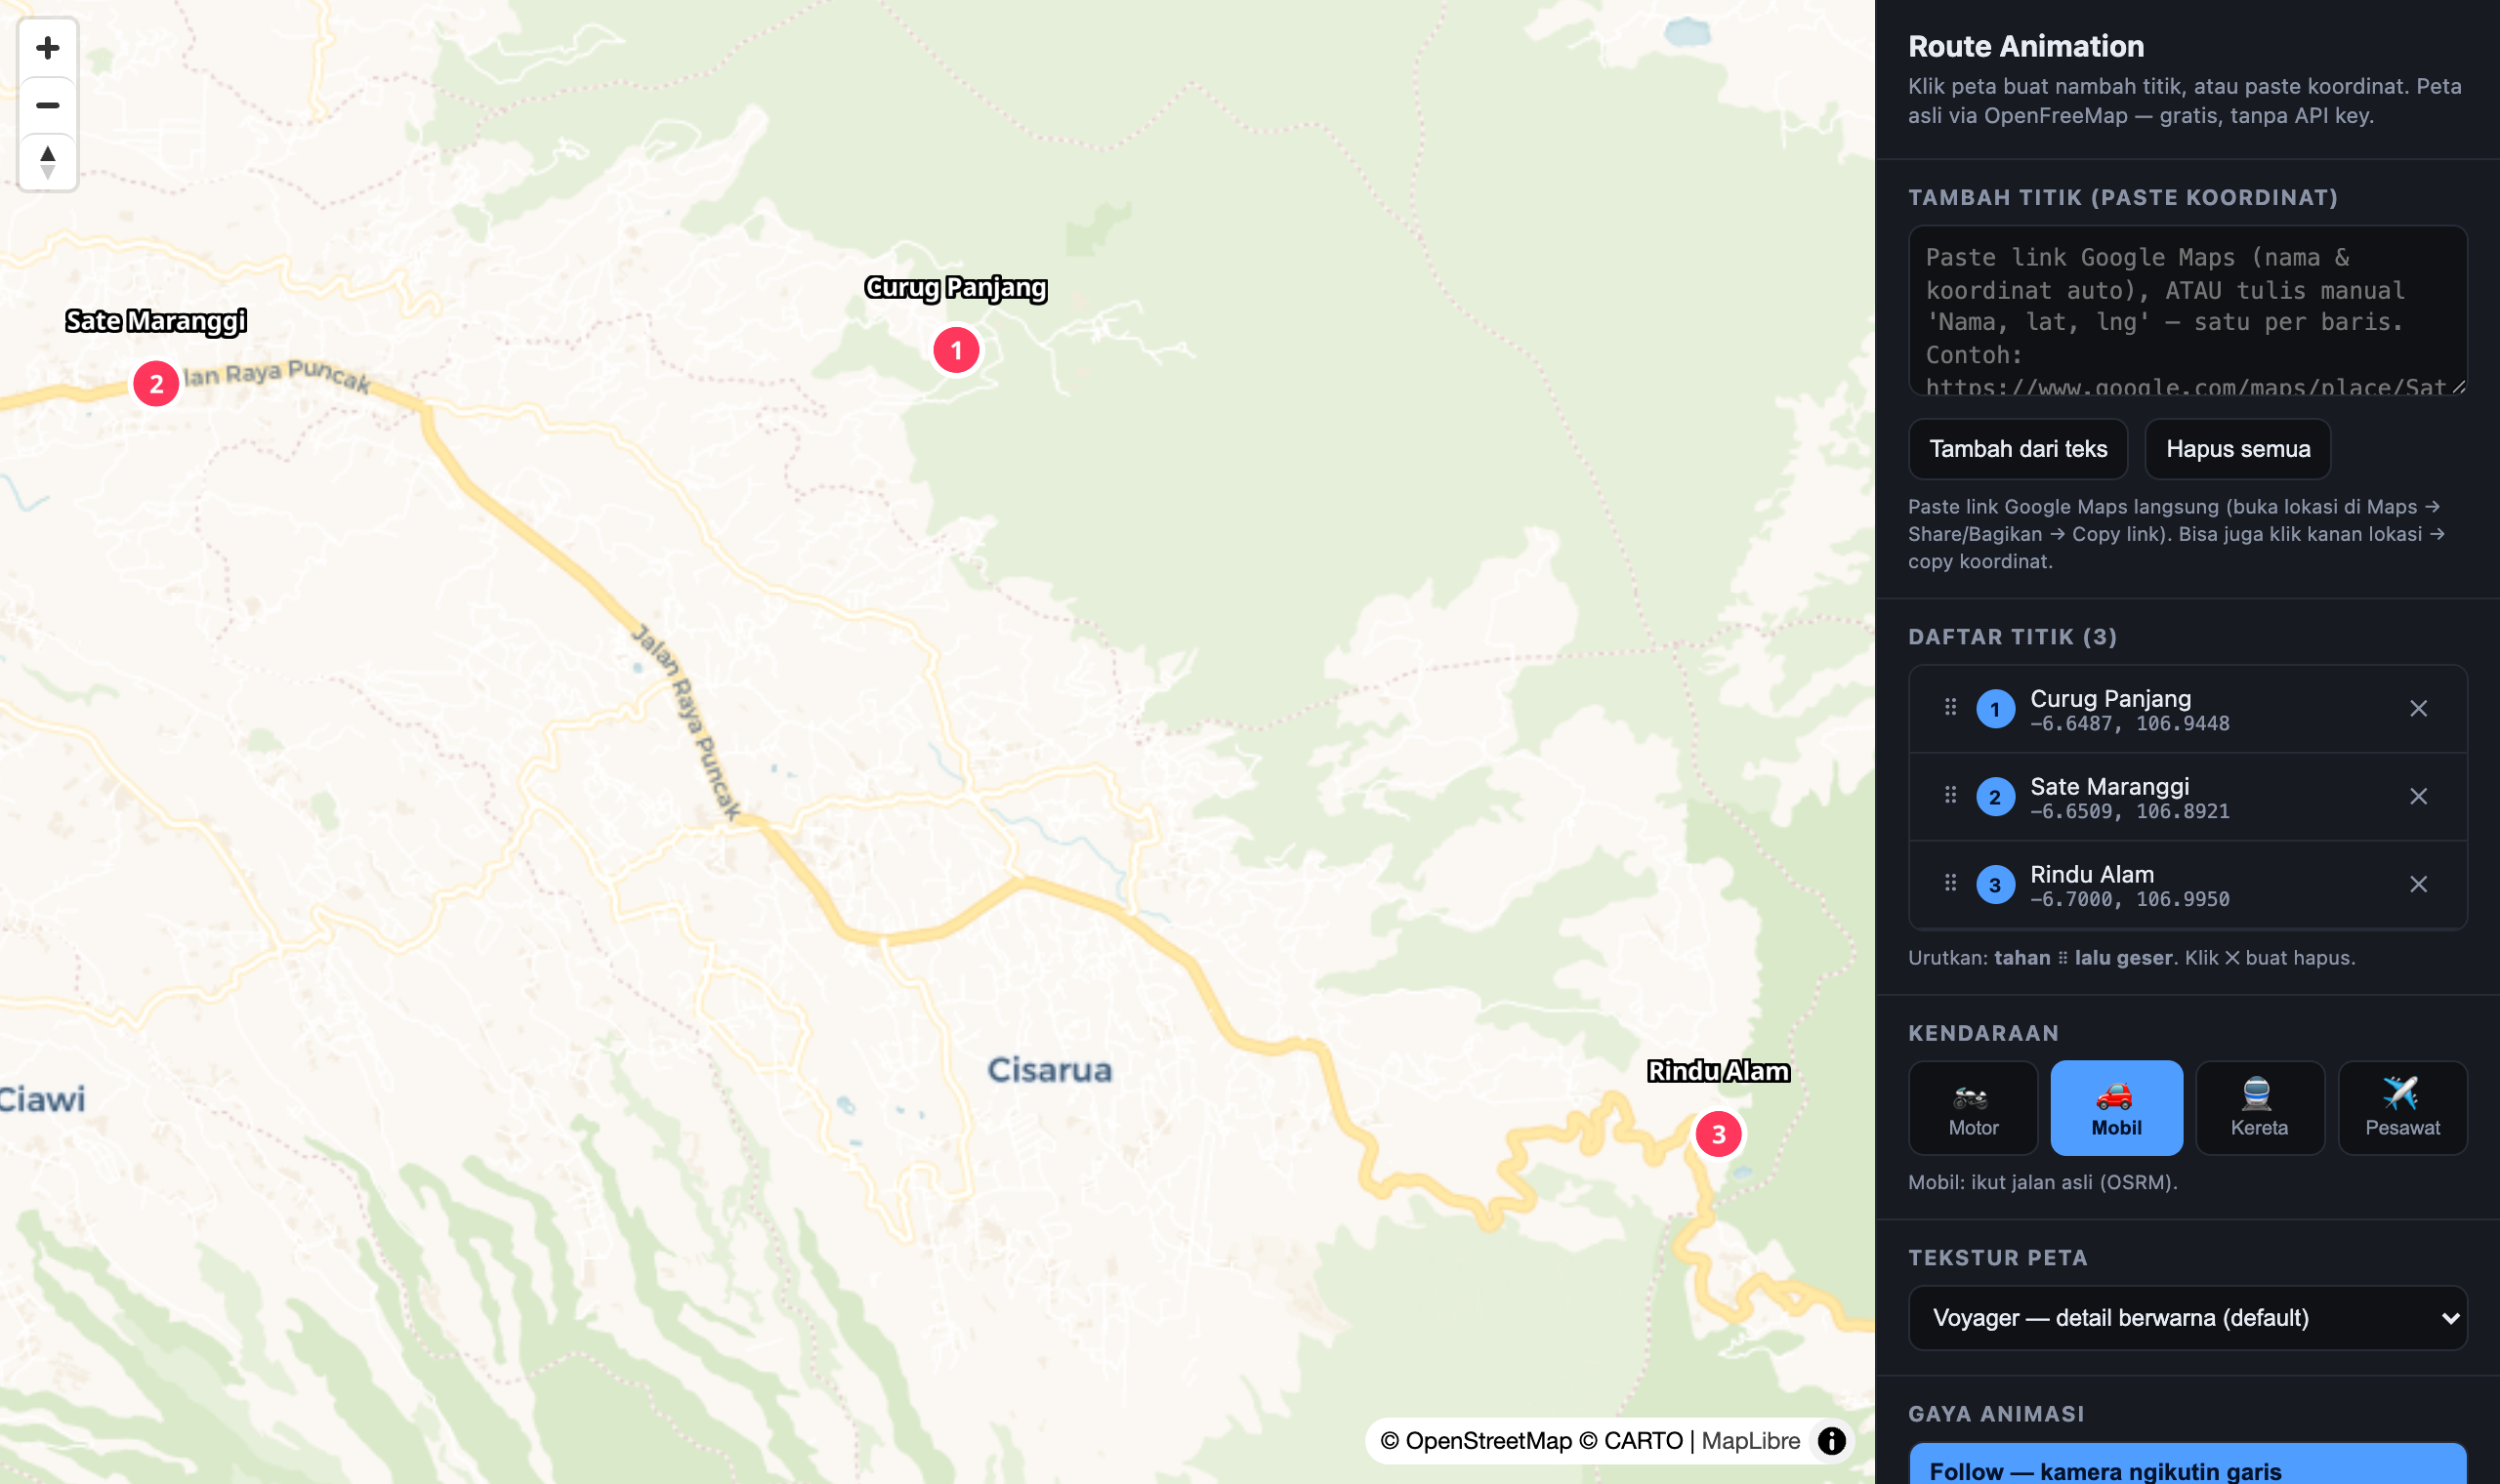
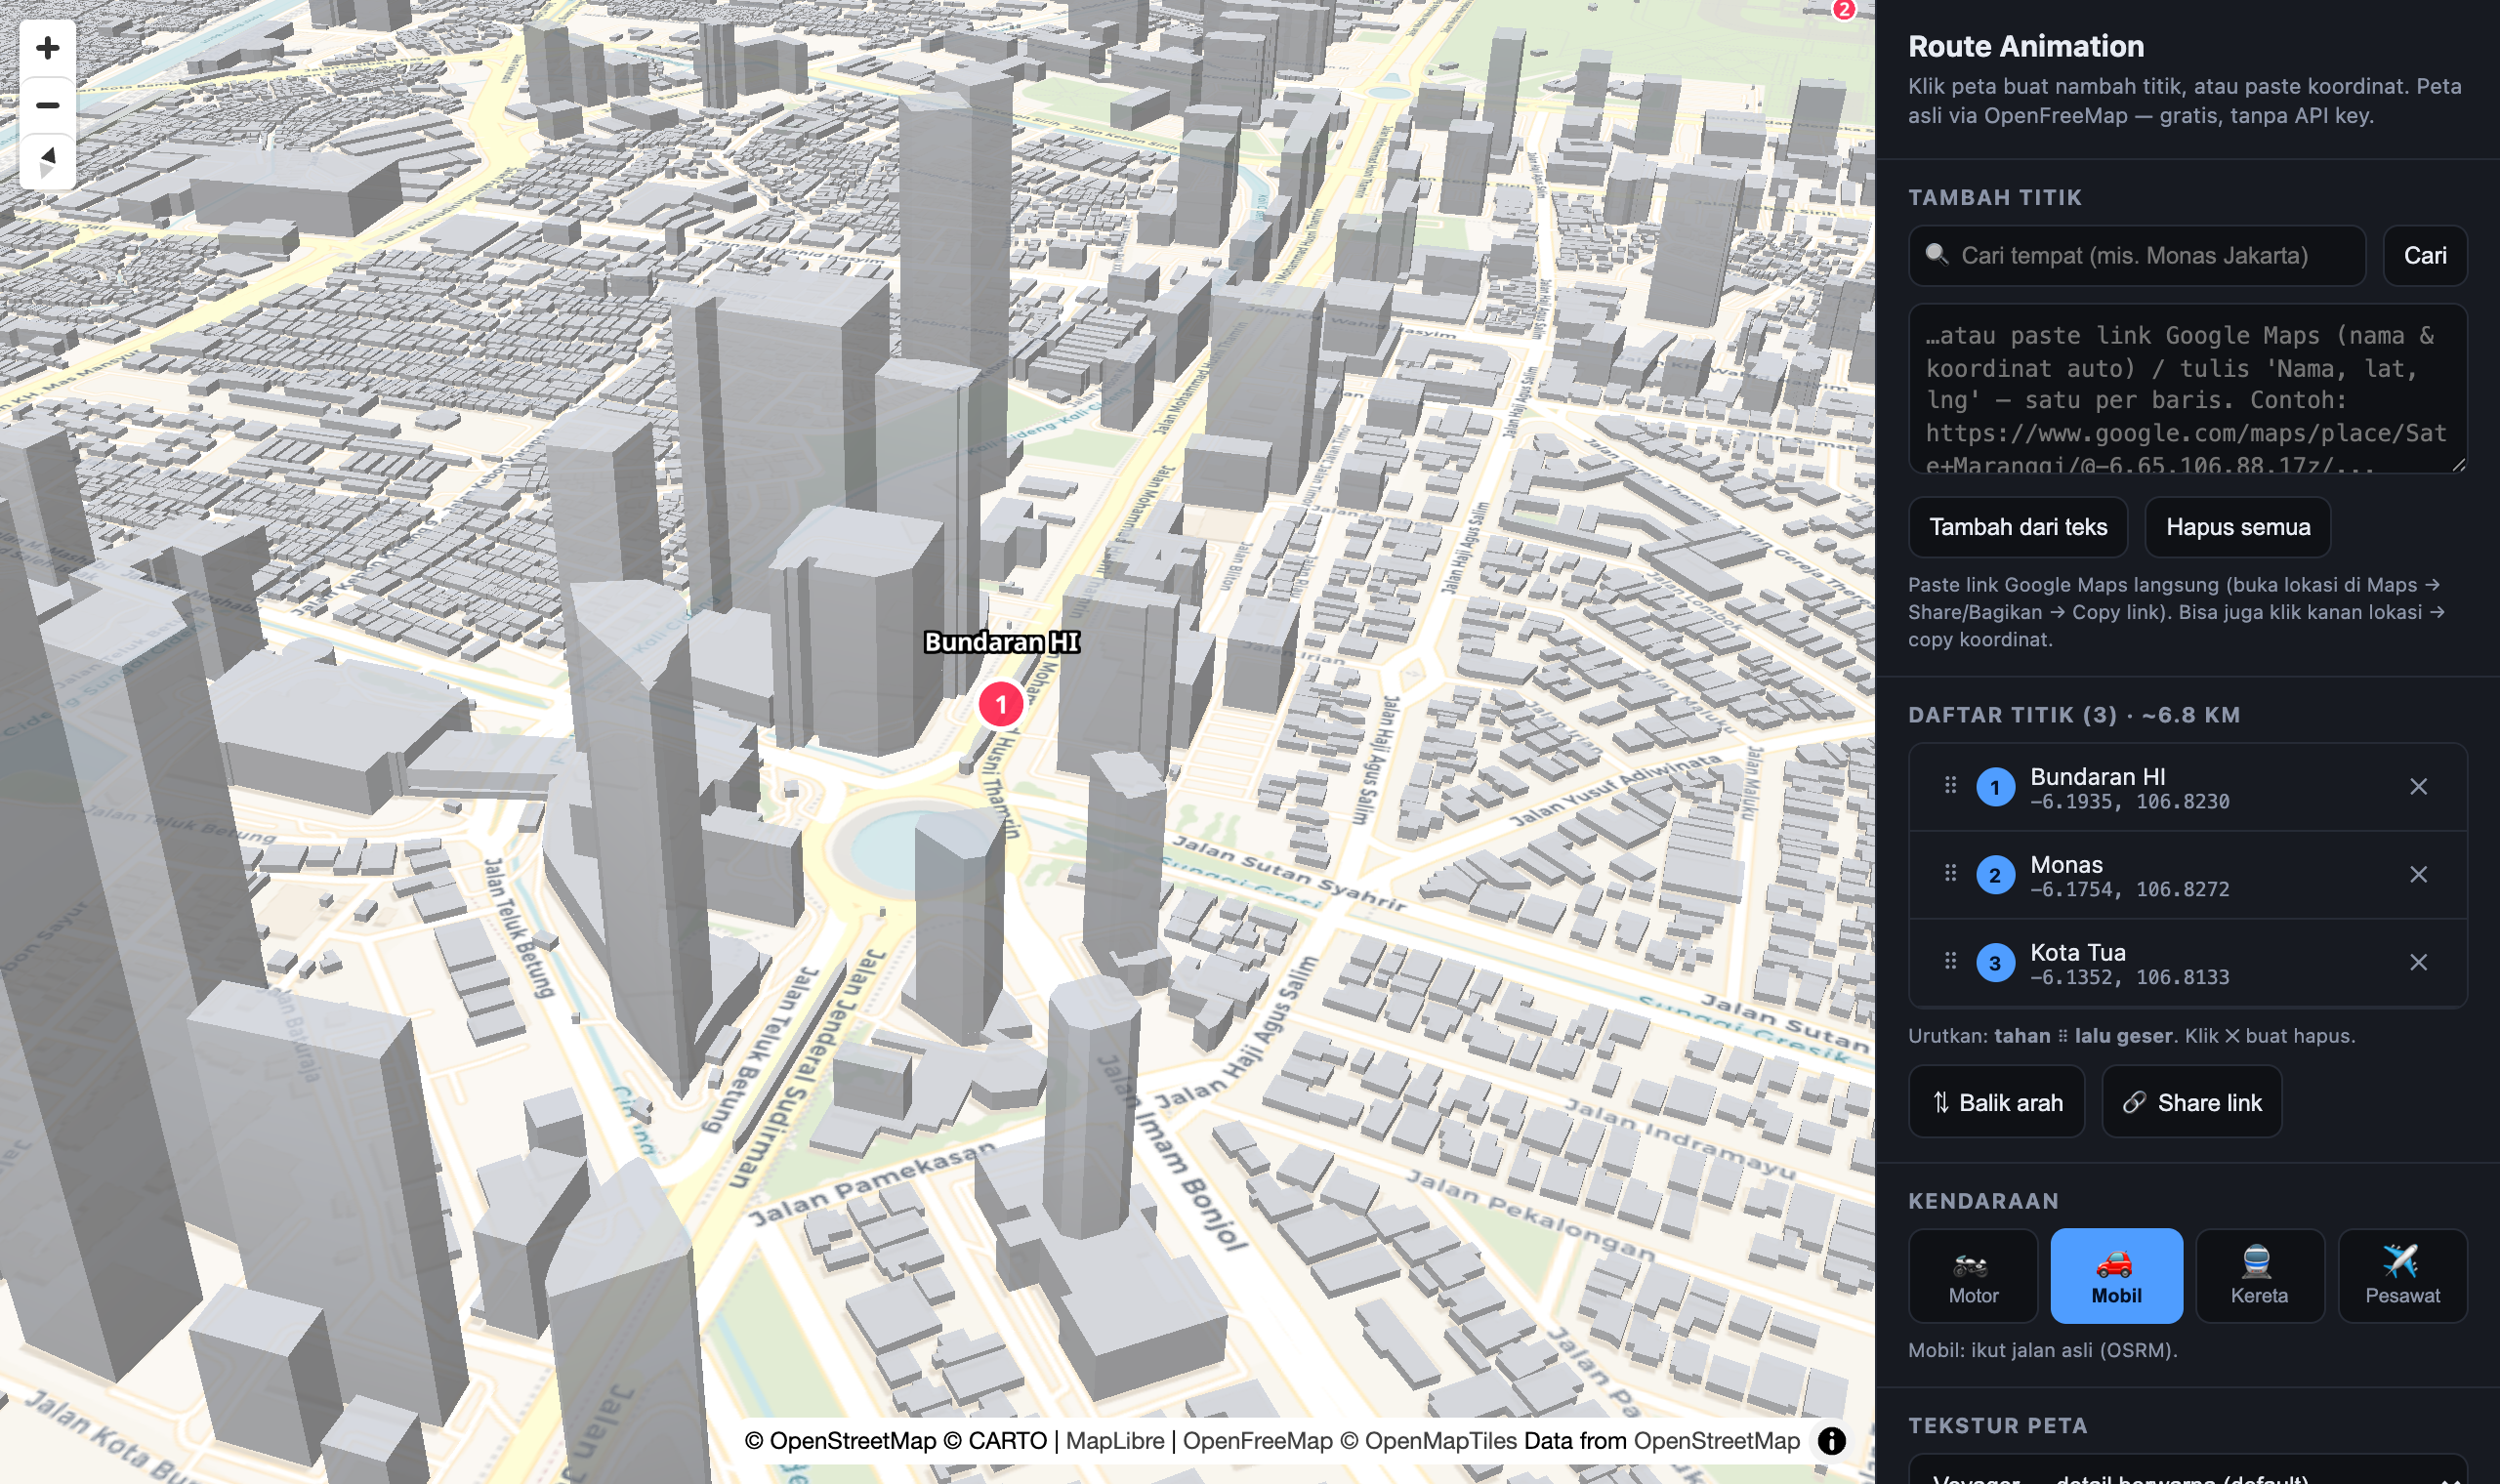
Add 3D buildings, place search, route color, share link, MP4, 3D plane & train
- All four vehicles now render as 3D models (plane flies at altitude,
  train has a locomotive with wheels).
- Optional 3D buildings (OpenFreeMap vector tiles, shown when pitched).
- Place search via OpenStreetMap Nominatim geocoding.
- Custom route color.
- Share link: whole route + settings encoded in the URL.
- Record format selector (WebM/MP4, uses native MP4 when supported).

diff --git a/map-animation.html b/map-animation.html
@@ -48,6 +48,11 @@
   .field label { font-size:11px; color:var(--mut); display:flex; justify-content:space-between; }
   input[type=range] { width:100%; accent-color:var(--acc); }
   select { width:100%; background:var(--bg); color:var(--txt); border:1px solid var(--line); border-radius:8px; padding:8px; font-size:12px; cursor:pointer; }
+  input[type=text] { background:var(--bg); color:var(--txt); border:1px solid var(--line); border-radius:8px; padding:8px; font-size:12px; }
+  input[type=text]:focus { outline:none; border-color:var(--acc); }
+  input[type=color] { width:38px; height:28px; padding:0; border:1px solid var(--line); border-radius:6px; background:var(--bg); cursor:pointer; }
+  input[type=checkbox] { accent-color:var(--acc); }
+  .chk { display:flex; align-items:center; gap:8px; margin-top:10px; font-size:12px; color:var(--mut); cursor:pointer; }
   .seg { display:flex; background:var(--bg); border:1px solid var(--line); border-radius:8px; overflow:hidden; }
   .seg button { border:0; border-radius:0; flex:1; }
   .seg.vseg { flex-direction:column; }
@@ -74,8 +79,12 @@
     </div>
 
     <div class="sec">
-      <h2>Tambah titik (paste koordinat)</h2>
-      <textarea id="paste" placeholder="Paste link Google Maps (nama & koordinat auto), ATAU tulis manual 'Nama, lat, lng' — satu per baris. Contoh:
+      <h2>Tambah titik</h2>
+      <div class="row" style="margin-bottom:8px">
+        <input id="searchBox" type="text" placeholder="🔍 Cari tempat (mis. Monas Jakarta)" style="flex:1">
+        <button id="searchBtn">Cari</button>
+      </div>
+      <textarea id="paste" placeholder="…atau paste link Google Maps (nama & koordinat auto) / tulis 'Nama, lat, lng' — satu per baris. Contoh:
 https://www.google.com/maps/place/Sate+Maranggi/@-6.65,106.88,17z/...
 Kafe A, -6.5971, 106.8060"></textarea>
       <div class="row" style="margin-top:8px">
@@ -91,6 +100,7 @@ Kafe A, -6.5971, 106.8060"></textarea>
       <div class="hint" id="listHint">Belum ada titik. Paste koordinat di atas atau klik peta. Nanti <b>tahan ⠿ lalu geser</b> buat urutkan.</div>
       <div class="row" style="margin-top:8px">
         <button id="reverse" title="urutan titik dibalik">⇅ Balik arah</button>
+        <button id="share" title="salin link berisi rute ini">🔗 Share link</button>
       </div>
     </div>
 
@@ -115,6 +125,7 @@ Kafe A, -6.5971, 106.8060"></textarea>
         <option value="osm">OSM klasik — peta OpenStreetMap</option>
         <option value="topo">Topo — kontur/topografi</option>
       </select>
+      <label class="chk"><input type="checkbox" id="bldg3d"> Gedung 3D <span style="opacity:.7">(kelihatan pas peta dimiringkan)</span></label>
     </div>
 
     <div class="sec">
@@ -128,6 +139,10 @@ Kafe A, -6.5971, 106.8060"></textarea>
     </div>
 
     <div class="sec">
+      <div class="field" style="flex-direction:row; align-items:center; justify-content:space-between">
+        <label style="margin:0">Warna rute</label>
+        <input type="color" id="routeColor" value="#4f9dff">
+      </div>
       <div class="field">
         <label>Kecepatan animasi <span id="spdV">1.0×</span></label>
         <input type="range" id="spd" min="0.3" max="3" step="0.1" value="1">
@@ -146,8 +161,9 @@ Kafe A, -6.5971, 106.8060"></textarea>
       <div class="row">
         <button id="play" class="primary" style="flex:1">▶ Play</button>
         <button id="rec" class="rec">● Record</button>
+        <select id="recFmt" style="width:auto" title="format video"><option value="webm">WebM</option><option value="mp4">MP4</option></select>
       </div>
-      <div class="hint">Klik Record dulu → lalu Play → klik Record lagi buat stop &amp; download WebM.</div>
+      <div class="hint">Klik Record dulu → lalu Play → klik Record lagi buat stop &amp; download. MP4 buat IG/TikTok (kalau browser dukung).</div>
     </div>
   </div>
 </div>
@@ -210,31 +226,43 @@ let cancelReq = false;
 let restored = false; // true setelah state dari localStorage dimuat
 
 /* ---------- simpan/muat otomatis (localStorage) ---------- */
+function stateObj(){
+  return { v: vehicle, a: animStyle,
+    b: document.getElementById('basemap').value,
+    c: document.getElementById('routeColor').value,
+    bldg: document.getElementById('bldg3d').checked,
+    f: document.getElementById('recFmt').value,
+    wp: waypoints.map(w => [ +w.lat.toFixed(5), +w.lng.toFixed(5), w.name ]) };
+}
+function applyState(s){
+  if(!s) return;
+  if(Array.isArray(s.wp)) waypoints = s.wp
+    .map(w => Array.isArray(w) ? { lat:w[0], lng:w[1], name:w[2] } : w)
+    .filter(w => w && typeof w.lat==='number' && typeof w.lng==='number');
+  if(s.v && VEHICLES[s.v]) vehicle = s.v;
+  if(s.a) animStyle = s.a;
+  if(s.b && BASEMAPS[s.b]){ document.getElementById('basemap').value = s.b; setBasemap(s.b); }
+  if(s.c) document.getElementById('routeColor').value = s.c;
+  if(s.f) document.getElementById('recFmt').value = s.f;
+  if(s.bldg) document.getElementById('bldg3d').checked = true;
+}
 function persist(){
   if(!restored) return; // jangan nimpa storage pas init
-  try {
-    localStorage.setItem('mapAnimState', JSON.stringify({
-      v: vehicle, a: animStyle,
-      b: document.getElementById('basemap').value,
-      wp: waypoints
-    }));
-  } catch(e){}
+  try { localStorage.setItem('mapAnimState', JSON.stringify(stateObj())); } catch(e){}
 }
 function loadState(){
-  try {
-    const s = JSON.parse(localStorage.getItem('mapAnimState') || 'null');
-    if(s){
-      if(Array.isArray(s.wp)) waypoints = s.wp.filter(w => w && typeof w.lat==='number' && typeof w.lng==='number');
-      if(s.v && VEHICLES[s.v]) vehicle = s.v;
-      if(s.a) animStyle = s.a;
-      if(s.b && BASEMAPS[s.b]){ document.getElementById('basemap').value = s.b; setBasemap(s.b); }
-    }
-  } catch(e){}
+  let s = null;
+  // prioritas: share link di URL (#r=...), lalu localStorage
+  if(location.hash.startsWith('#r=')) s = decodeState(location.hash.slice(3));
+  if(!s){ try { s = JSON.parse(localStorage.getItem('mapAnimState') || 'null'); } catch(e){} }
+  applyState(s);
   restored = true;
-  // sinkronkan tampilan tombol dengan state
+  // sinkronkan tampilan dengan state
   document.querySelectorAll('#veh button').forEach(x => x.classList.toggle('on', x.dataset.v === vehicle));
   document.querySelectorAll('#anim button').forEach(x => x.classList.toggle('on', x.dataset.a === animStyle));
   document.getElementById('vehHint').textContent = VEHICLES[vehicle].hint;
+  applyRouteColor();
+  if(document.getElementById('bldg3d').checked) setBuildings3D(true);
   setVehicleIcon();
   redraw();
   if(waypoints.length) fitAll();
@@ -296,7 +324,7 @@ function setVehicleIcon(){
 /* ============ KENDARAAN 3D (Three.js custom layer) ============ */
 // vehState di-update tiap frame animasi. Layer 3D baca ini buat posisi/arah.
 const vehState = { lng:0, lat:0, angle:0, visible:false, spin:0, kind:'mobil' };
-const VEH3D = { car:null, moto:null }; // group Three.js, wheels[] buat muter
+const VEH3D = { mobil:null, motor:null, pesawat:null, kereta:null }; // group Three.js per kendaraan
 
 function mat(hex){ return new THREE.MeshLambertMaterial({ color:hex });
 }
@@ -338,8 +366,40 @@ function buildMoto(color){
   g.userData.wheels = wheels;
   return g;
 }
+function buildPlane(color){
+  const g = new THREE.Group();
+  const fuse = new THREE.Mesh(new THREE.CylinderGeometry(0.55,0.55,6,16), mat(color));
+  fuse.rotation.z = Math.PI/2; fuse.position.z = 0.6; g.add(fuse); // badan sepanjang X
+  const nose = new THREE.Mesh(new THREE.ConeGeometry(0.55,1.2,16), mat(color));
+  nose.rotation.z = -Math.PI/2; nose.position.set(3.4,0,0.6); g.add(nose);
+  const wing = new THREE.Mesh(new THREE.BoxGeometry(1.5,7.5,0.18), mat(0xdfe6ea));
+  wing.position.set(0,0,0.6); g.add(wing);
+  const tailW = new THREE.Mesh(new THREE.BoxGeometry(1,3,0.15), mat(0xdfe6ea));
+  tailW.position.set(-2.7,0,0.7); g.add(tailW);
+  const fin = new THREE.Mesh(new THREE.BoxGeometry(1,0.15,1.2), mat(color));
+  fin.position.set(-2.7,0,1.3); g.add(fin);
+  g.userData.wheels = []; // terbang, gak ada ban muter
+  return g;
+}
+function buildTrain(color){
+  const g = new THREE.Group();
+  const body = new THREE.Mesh(new THREE.BoxGeometry(7,2.2,2.4), mat(color));
+  body.position.z = 1.6; g.add(body);
+  const cab = new THREE.Mesh(new THREE.BoxGeometry(1.4,2.2,1.2), mat(0x1b2330));
+  cab.position.set(2.9,0,2.4); g.add(cab); // kaca depan gelap
+  const stripe = new THREE.Mesh(new THREE.BoxGeometry(7.02,2.22,0.4), mat(0xffd23f));
+  stripe.position.z = 1.2; g.add(stripe);
+  const wheels = [];
+  for(const x of [2.2,0,-2.2]) for(const y of [1.15,-1.15]){
+    const w = new THREE.Mesh(new THREE.CylinderGeometry(0.6,0.6,0.25,16), new THREE.MeshLambertMaterial({color:0x0c0e12}));
+    w.rotation.x = Math.PI/2; w.position.set(x,y,0.6); g.add(w); wheels.push(w);
+  }
+  g.userData.wheels = wheels;
+  return g;
+}
 
-const SIZE_BOOST = 22; // model dalam meter itu kekecilan di peta; besarkan biar kebaca
+const SIZE_BOOST = 22;   // model dalam meter itu kekecilan di peta; besarkan biar kebaca
+const PLANE_ALT = 170;   // pesawat terbang -> kasih ketinggian biar keliatan melayang
 const vehicle3DLayer = {
   id: 'veh-3d', type:'custom', renderingMode:'3d',
   onAdd(m, gl){
@@ -347,7 +407,8 @@ const vehicle3DLayer = {
     this.scene = new THREE.Scene();
     this.scene.add(new THREE.AmbientLight(0xffffff, 0.85));
     const dir = new THREE.DirectionalLight(0xffffff, 0.75); dir.position.set(0.4, -0.7, 1); this.scene.add(dir);
-    VEH3D.car = buildCar(0xff2d55); VEH3D.moto = buildMoto(0x2d7dff);
+    VEH3D.mobil = buildCar(0xff2d55); VEH3D.motor = buildMoto(0x2d7dff);
+    VEH3D.pesawat = buildPlane(0x2f6fd6); VEH3D.kereta = buildTrain(0xc0392b);
     this.holder = new THREE.Group(); this.scene.add(this.holder);
     this.renderer = new THREE.WebGLRenderer({ canvas:m.getCanvas(), context:gl, antialias:true });
     this.renderer.autoClear = false;
@@ -356,17 +417,20 @@ const vehicle3DLayer = {
   render(gl, matrix){
     const now = performance.now(); const dt = (now - this.last)/1000; this.last = now;
     if(!vehState.visible){ return; }
-    // pilih model
-    const model = vehState.kind === 'motor' ? VEH3D.moto : VEH3D.car;
+    // pilih model sesuai kendaraan
+    const model = VEH3D[vehState.kind] || VEH3D.mobil;
     this.holder.clear(); this.holder.add(model);
-    // ban muter (proporsional kecepatan spin)
+    // ban muter (proporsional kecepatan spin) — pesawat gak punya
     const wheels = model.userData.wheels || [];
     for(const w of wheels) w.rotation.y += vehState.spin * dt;
     // arah hadap (belok) — mulus, di-set dari luar sbg vehState.angle (radian, model +X = maju)
     model.rotation.set(0,0,vehState.angle);
 
-    const merc = maplibregl.MercatorCoordinate.fromLngLat([vehState.lng, vehState.lat], 0);
-    const s = merc.meterInMercatorCoordinateUnits() * SIZE_BOOST;
+    const alt = vehState.kind === 'pesawat' ? PLANE_ALT : 0;
+    const merc = maplibregl.MercatorCoordinate.fromLngLat([vehState.lng, vehState.lat], alt);
+    // pesawat/kereta dipakai buat jarak jauh (zoom out) -> boost lebih biar kebaca
+    const boost = SIZE_BOOST * (vehState.kind === 'pesawat' ? 1.8 : vehState.kind === 'kereta' ? 1.2 : 1);
+    const s = merc.meterInMercatorCoordinateUnits() * boost;
     const l = new THREE.Matrix4()
       .makeTranslation(merc.x, merc.y, merc.z)
       .scale(new THREE.Vector3(s, -s, s));   // -Y: peta utara = model +Y
@@ -560,7 +624,7 @@ async function play(){
   }
   if(cancelReq) return finishPlay('Dibatalin');
 
-  const use3D = (vehicle === 'motor' || vehicle === 'mobil'); // 3D buat motor/mobil, emoji buat kereta/pesawat
+  const use3D = (typeof THREE !== 'undefined' && map.getLayer('veh-3d')); // model 3D buat semua; emoji cuma fallback
   if(use3D && map.getSource('veh')) map.getSource('veh').setData(emptyFC()); // sembunyikan emoji
   let vehHeading = (()=>{ try{ const b=turf.bearing(turf.point(full[0]), turf.point(full[1]||full[0])); return isNaN(b)?0:b; }catch(e){ return 0; } })();
 
@@ -639,8 +703,11 @@ let recorder=null, chunks=[], recExt='webm';
 // cari format yang didukung browser (Chrome=webm, Safari=mp4)
 function pickMime(){
   if(typeof MediaRecorder === 'undefined') return null;
-  const cands = ['video/webm;codecs=vp9','video/webm;codecs=vp8','video/webm','video/mp4;codecs=h264','video/mp4'];
-  for(const c of cands){ if(MediaRecorder.isTypeSupported(c)) return c; }
+  const pref = document.getElementById('recFmt').value; // 'webm' | 'mp4'
+  const webm = ['video/webm;codecs=vp9','video/webm;codecs=vp8','video/webm'];
+  const mp4  = ['video/mp4;codecs=h264','video/mp4'];
+  const order = pref === 'mp4' ? mp4.concat(webm) : webm.concat(mp4);
+  for(const c of order){ if(MediaRecorder.isTypeSupported(c)) return c; }
   return ''; // biarin browser pilih default
 }
 function toggleRec(){
@@ -676,7 +743,8 @@ function toggleRec(){
   };
   recorder.start();
   btn.textContent = '■ Stop & Save';
-  status('Merekam… klik Play');
+  const wantMp4 = document.getElementById('recFmt').value === 'mp4';
+  status(wantMp4 && recExt !== 'mp4' ? 'Merekam (WebM — browser gak dukung MP4)…' : 'Merekam… klik Play');
 }
 
 /* ---------- UI wiring ---------- */
@@ -767,6 +835,62 @@ document.getElementById('reverse').onclick = () => {
   waypoints.reverse(); redraw(); fitAll();
   status('Arah dibalik'); setTimeout(()=>status(''),1200);
 };
+
+/* ---------- warna rute ---------- */
+function applyRouteColor(){
+  const c = document.getElementById('routeColor').value;
+  if(map.getLayer('route-line')) map.setPaintProperty('route-line', 'line-color', c);
+}
+document.getElementById('routeColor').oninput = () => { applyRouteColor(); persist(); };
+
+/* ---------- cari tempat (geocoding Nominatim/OSM, gratis) ---------- */
+async function searchPlace(){
+  const q = document.getElementById('searchBox').value.trim();
+  if(!q){ return; }
+  status('Mencari…');
+  try {
+    const r = await fetch('https://nominatim.openstreetmap.org/search?format=json&limit=1&q=' + encodeURIComponent(q));
+    const j = await r.json();
+    if(!j.length){ status('Tempat gak ketemu'); setTimeout(()=>status(''),1600); return; }
+    const p = j[0];
+    waypoints.push({ name:(p.display_name || q).split(',')[0].trim(), lat:parseFloat(p.lat), lng:parseFloat(p.lon) });
+    document.getElementById('searchBox').value = '';
+    redraw(); fitAll();
+    status('Ditambah: ' + waypoints[waypoints.length-1].name); setTimeout(()=>status(''),1800);
+  } catch(e){ status('Gagal cari (server sibuk, coba lagi)'); setTimeout(()=>status(''),1800); }
+}
+document.getElementById('searchBtn').onclick = searchPlace;
+document.getElementById('searchBox').addEventListener('keydown', e => { if(e.key === 'Enter'){ e.preventDefault(); searchPlace(); } });
+
+/* ---------- share via URL ---------- */
+function encodeState(){ try { return btoa(unescape(encodeURIComponent(JSON.stringify(stateObj())))); } catch(e){ return ''; } }
+function decodeState(str){ try { return JSON.parse(decodeURIComponent(escape(atob(str)))); } catch(e){ return null; } }
+document.getElementById('share').onclick = async () => {
+  if(!waypoints.length){ status('Belum ada titik buat di-share'); return; }
+  const url = location.origin + location.pathname + '#r=' + encodeState();
+  try { await navigator.clipboard.writeText(url); status('🔗 Link disalin ke clipboard'); }
+  catch(e){ prompt('Salin link ini:', url); }
+  setTimeout(()=>status(''),2200);
+};
+
+/* ---------- gedung 3D (vector tiles OpenFreeMap, di bawah rute) ---------- */
+function setBuildings3D(on){
+  if(on){
+    if(!map.getSource('ofm')) map.addSource('ofm', { type:'vector', url:'https://tiles.openfreemap.org/planet' });
+    if(!map.getLayer('buildings-3d')){
+      map.addLayer({ id:'buildings-3d', type:'fill-extrusion', source:'ofm', 'source-layer':'building', minzoom:13,
+        paint:{
+          'fill-extrusion-color':'#c3c8d2',
+          'fill-extrusion-height':['coalesce',['get','render_height'],['get','height'],8],
+          'fill-extrusion-base':['coalesce',['get','render_min_height'],['get','min_height'],0],
+          'fill-extrusion-opacity':0.75
+        } }, 'route-line'); // di bawah rute & titik
+    }
+  } else {
+    if(map.getLayer('buildings-3d')) map.removeLayer('buildings-3d');
+  }
+}
+document.getElementById('bldg3d').onchange = (e) => { setBuildings3D(e.target.checked); persist(); };
 </script>
 </body>
 </html>

diff --git a/README.md b/README.md
@@ -9,15 +9,19 @@ Dibangun pakai **MapLibre GL JS** + basemap raster gratis (CARTO / OSM / Esri / 
 ## Fitur
 
 - 🗺️ **Peta jalan asli** — 6 tekstur: Voyager, Light, Dark, Satellite, OSM, Topo (tinggal pilih, ganti instan)
-- 📍 **Tambah titik** — paste **link Google Maps** (nama + koordinat diekstrak otomatis) atau ketik `Nama, lat, lng`, atau klik langsung di peta
-- ↕️ **Urutkan ulang** titik dengan drag-and-drop
-- 🚗 **Pilih kendaraan** — Motor / Mobil (ikut jalan asli via OSRM) · Kereta (garis lurus) · Pesawat (garis lengkung)
-  - Motor & Mobil pakai **model 3D** (Three.js) — ban muter, ngadep + belok mulus ngikutin jalan
+- 🏙️ **Gedung 3D** opsional (kelihatan pas peta dimiringkan) — bikin view kota kayak sinematik
+- 🔍 **Cari tempat** langsung dari nama (geocoding OpenStreetMap) — gak perlu buka Google Maps
+- 📍 **Tambah titik** — cari, paste **link Google Maps** (nama + koordinat auto), ketik `Nama, lat, lng`, atau klik peta
+- ↕️ **Urutkan ulang** titik dengan drag-and-drop · **⇅ Balik arah** buat reverse
+- 🚗 **Pilih kendaraan** — semua pakai **model 3D** (Three.js): Motor 🏍️, Mobil 🚗, Kereta 🚆, Pesawat ✈️
+  - Ban muter, ngadep + belok mulus ngikutin rute; pesawat terbang di ketinggian
   - Tiap kendaraan punya **kecepatan sendiri**: pesawat ngebut buat jarak jauh antar negara/pulau, mobil santai buat lokal
+- 🎨 **Warna rute** bisa diganti sesuka hati
 - 🎬 **Gaya animasi** — Follow · Cinematic 3D (kamera miring + muter) · Overview
 - 🎚️ Atur kecepatan, zoom, dan kemiringan (pitch) kamera
 - 💾 **Auto-save** — titik & setting kesimpen otomatis, gak hilang pas refresh
-- 📏 **Total jarak** rute ditampilkan · **⇅ Balik arah** buat reverse rute
+- 🔗 **Share link** — rute dibungkus jadi URL, tinggal kirim ke orang
+- 📏 **Total jarak** rute ditampilkan
 - ⏺️ **Record ke video** (WebM/MP4) langsung dari browser — tanpa server render
 - ⏹️ Batalin animasi kapan aja
 